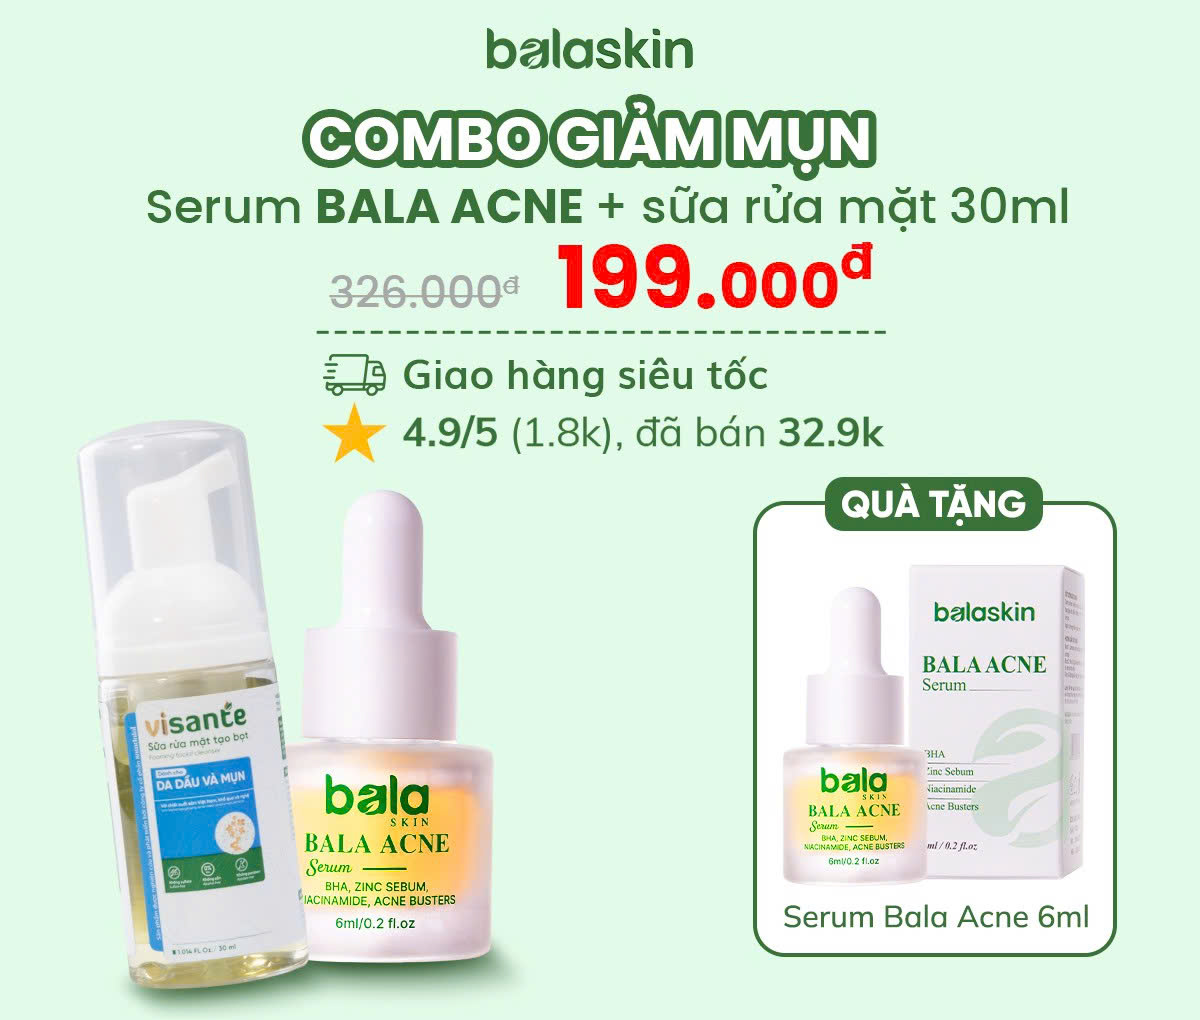
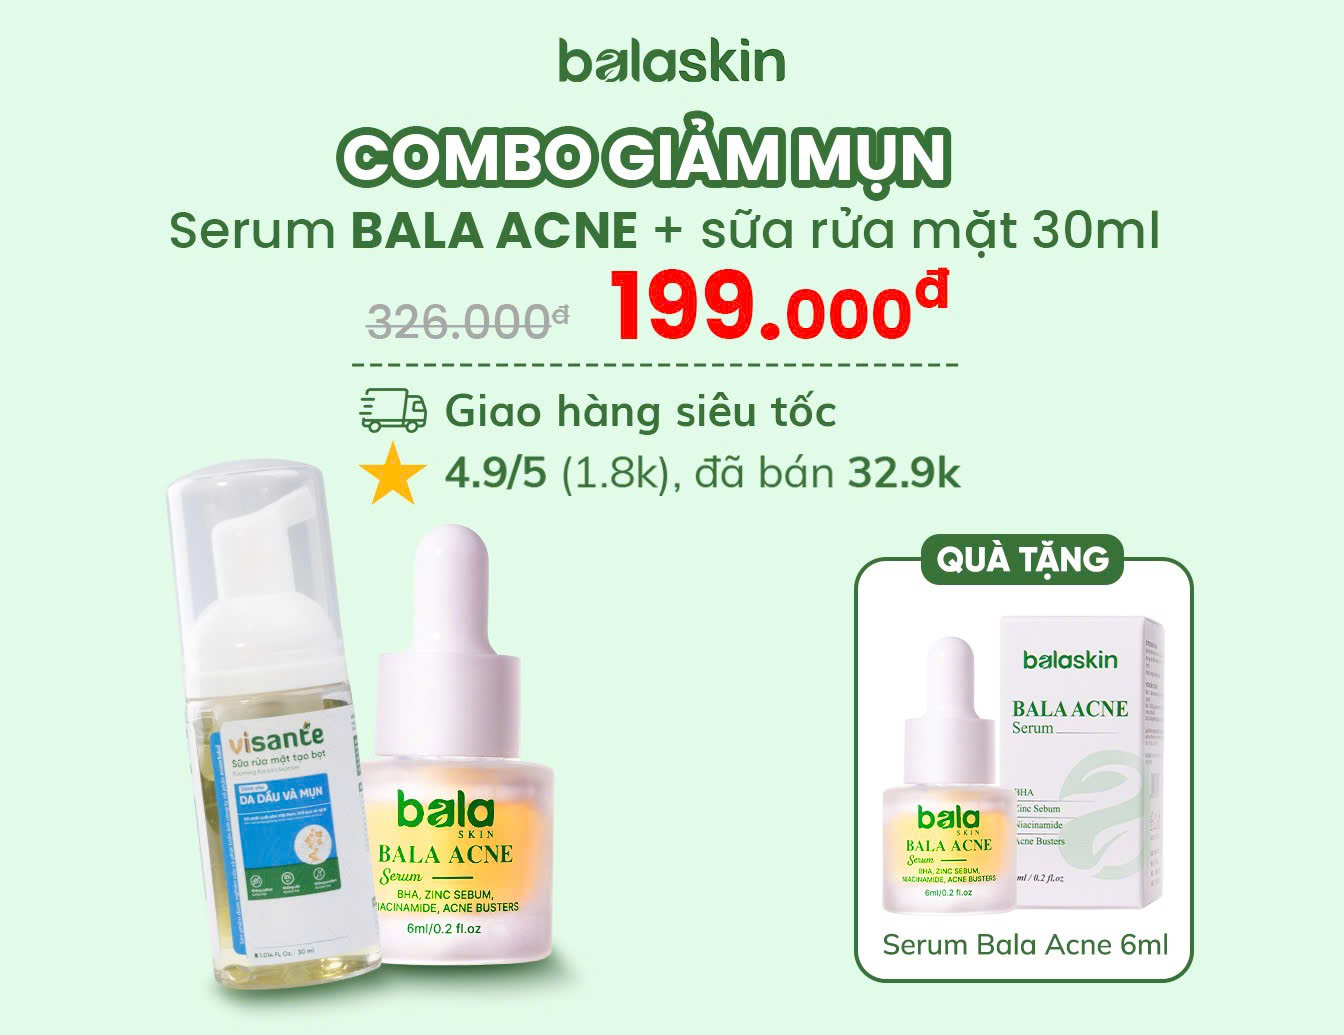
update code

Changed region(s): [[0.0617, 0.0304, 0.9558, 1.0], [0.0617, 0.6078, 0.0925, 0.6382]]

diff --git a/index.html b/index.html
@@ -950,7 +950,8 @@
           <div
             class="relative mt-5 rounded-xl overflow-hidden"
             style="
-              background: url('/img/product/combo_2.jpg') no-repeat;
+              background: url('/img/product/combo_2.jpg') no-repeat center
+                center;
               background-size: cover;
               aspect-ratio: 616 / 472;
               width: 100%;
@@ -961,8 +962,8 @@
               href="#order"
               class="heartbeat-combo-btn absolute bg-[#306B3E] hover:bg-green-700 text-white font-bold rounded-full px-2 py-1 text-sm shadow-lg"
               style="
-                top: 60%;
-                left: 49%;
+                top: 55%;
+                left: 50%;
                 transform: translate(-50%, -50%);
                 min-width: 110px;
                 text-align: center;
